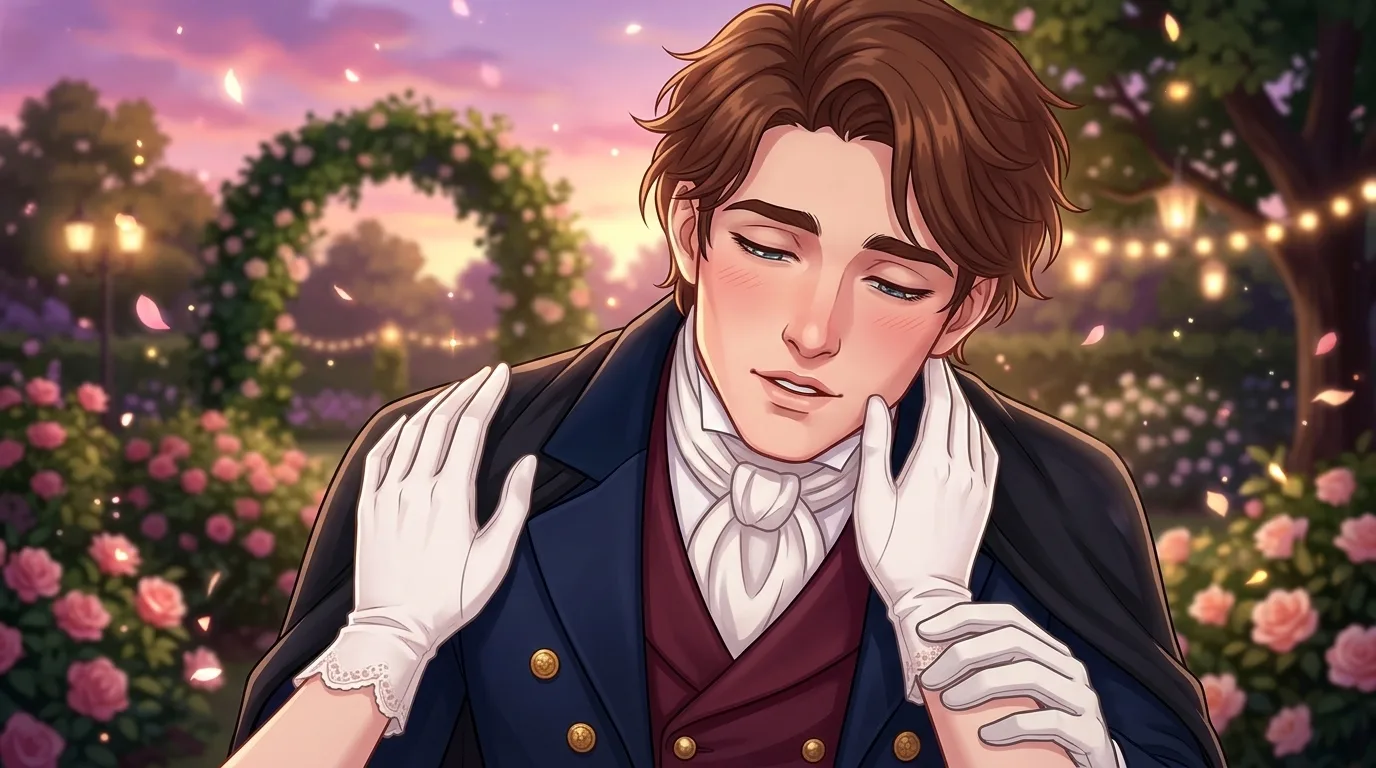
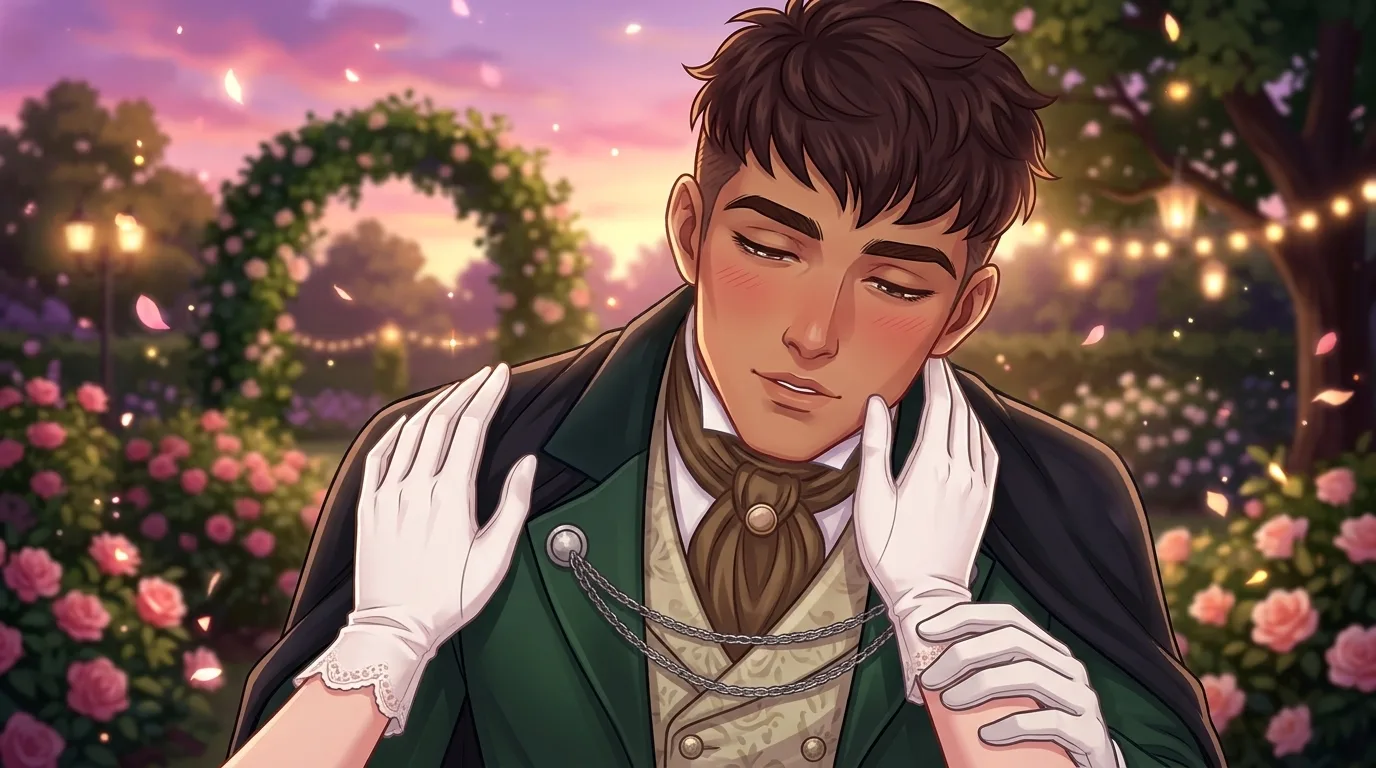
Corrige Edmund/Mateo sur les illustrations, ajoute firstkiss Edmund/Mateo et chevet Mateo
Claude-Session: https://claude.ai/code/session_01AMSofB5YBB9yuyCajHXYUu

diff --git a/sw.js b/sw.js
@@ -1,4 +1,4 @@
-const C='tlc-v28';const F=["./", "index.html", "manifest.webmanifest", "icons/favicon.png", "icons/icon-192.png", "icons/icon-512.png", "icons/icon-maskable-192.png", "icons/icon-maskable-512.png", "assets/bess.webp", "assets/clem.webp", "assets/cordelia.webp", "assets/dorval.webp", "assets/duchess.webp", "assets/edmund.webp", "assets/f1.webp", "assets/f2.webp", "assets/f3.webp", "assets/f4.webp", "assets/f5.webp", "assets/father.webp", "assets/georgie.webp", "assets/guard.webp", "assets/iris.webp", "assets/judge.webp", "assets/ladyp.webp", "assets/lordp.webp", "assets/m1.webp", "assets/m2.webp", "assets/m3.webp", "assets/m4.webp", "assets/mateo.webp", "assets/mk_bluegold.webp", "assets/mk_duchess.webp", "assets/mk_greengold.webp", "assets/mk_mcf.webp", "assets/mk_mcm.webp", "assets/mk_mother.webp", "assets/mk_peregrine.webp", "assets/mk_pink.webp", "assets/mk_prudence.webp", "assets/mk_queen.webp", "assets/mother.webp", "assets/nell.webp", "assets/perceval.webp", "assets/peregrine.webp", "assets/philippe.webp", "assets/prudence.webp", "assets/queen.webp", "assets/rosalind.webp", "assets/roux.webp", "assets/theo.webp", "assets/cg/firstkiss_nell.webp", "assets/cg/firstkiss_rosalind.webp", "assets/cg/jardin_edmund.webp", "assets/cg/jardin_mateo.webp", "assets/cg/jardin_nell.webp", "assets/cg/jardin_rosalind.webp", "assets/cg/pembroke_edmund.webp", "assets/cg/pembroke_mateo.webp", "assets/cg/pembroke_nell.webp", "assets/cg/pembroke_rosalind.webp"];
+const C='tlc-v29';const F=["./", "index.html", "manifest.webmanifest", "icons/favicon.png", "icons/icon-192.png", "icons/icon-512.png", "icons/icon-maskable-192.png", "icons/icon-maskable-512.png", "assets/bess.webp", "assets/clem.webp", "assets/cordelia.webp", "assets/dorval.webp", "assets/duchess.webp", "assets/edmund.webp", "assets/f1.webp", "assets/f2.webp", "assets/f3.webp", "assets/f4.webp", "assets/f5.webp", "assets/father.webp", "assets/georgie.webp", "assets/guard.webp", "assets/iris.webp", "assets/judge.webp", "assets/ladyp.webp", "assets/lordp.webp", "assets/m1.webp", "assets/m2.webp", "assets/m3.webp", "assets/m4.webp", "assets/mateo.webp", "assets/mk_bluegold.webp", "assets/mk_duchess.webp", "assets/mk_greengold.webp", "assets/mk_mcf.webp", "assets/mk_mcm.webp", "assets/mk_mother.webp", "assets/mk_peregrine.webp", "assets/mk_pink.webp", "assets/mk_prudence.webp", "assets/mk_queen.webp", "assets/mother.webp", "assets/nell.webp", "assets/perceval.webp", "assets/peregrine.webp", "assets/philippe.webp", "assets/prudence.webp", "assets/queen.webp", "assets/rosalind.webp", "assets/roux.webp", "assets/theo.webp", "assets/cg/chevet_mateo.webp", "assets/cg/firstkiss_edmund.webp", "assets/cg/firstkiss_mateo.webp", "assets/cg/firstkiss_nell.webp", "assets/cg/firstkiss_rosalind.webp", "assets/cg/jardin_edmund.webp", "assets/cg/jardin_mateo.webp", "assets/cg/jardin_nell.webp", "assets/cg/jardin_rosalind.webp", "assets/cg/pembroke_edmund.webp", "assets/cg/pembroke_mateo.webp", "assets/cg/pembroke_nell.webp", "assets/cg/pembroke_rosalind.webp"];
 self.addEventListener('install',e=>{e.waitUntil(caches.open(C).then(c=>c.addAll(F)).then(()=>self.skipWaiting()))});
 self.addEventListener('activate',e=>{e.waitUntil(caches.keys().then(k=>Promise.all(k.filter(x=>x!==C).map(x=>caches.delete(x)))).then(()=>self.clients.claim()))});
 self.addEventListener('fetch',e=>{if(e.request.method!=='GET')return;e.respondWith(caches.match(e.request).then(r=>r||fetch(e.request).then(res=>{if(res.ok||res.type==='opaque'){const cp=res.clone();caches.open(C).then(c=>c.put(e.request,cp))}return res}).catch(()=>caches.match('index.html'))))});

diff --git a/index.html b/index.html
@@ -4218,7 +4218,7 @@ function renderMenu(){$('mBack').textContent=tr('libBack');if(!menuBgDone){$('mb
  $('mList').innerHTML=`<button class="btn pri" data-a="cont" ${has?'':'disabled'}>${tr('cont')}</button><button class="btn" data-a="new">${tr('newg')}</button><button class="btn" data-a="gal">${tr('gal')}</button><button class="btn" data-a="saves">${tr('saves')}</button><button class="btn" data-a="opts">${tr('opts')}</button><div class="ver">${tr('ver')}</div>`}
 
 
-const CGS=new Set(['firstkiss_nell', 'firstkiss_rosalind', 'jardin_edmund', 'jardin_mateo', 'jardin_nell', 'jardin_rosalind', 'pembroke_edmund', 'pembroke_mateo', 'pembroke_nell', 'pembroke_rosalind']);
+const CGS=new Set(['chevet_mateo', 'firstkiss_edmund', 'firstkiss_mateo', 'firstkiss_nell', 'firstkiss_rosalind', 'jardin_edmund', 'jardin_mateo', 'jardin_nell', 'jardin_rosalind', 'pembroke_edmund', 'pembroke_mateo', 'pembroke_nell', 'pembroke_rosalind']);
 const CGSC=[{id:'firstkiss',t:['Le premier baiser à l\'opéra','The First Kiss at the Opera'],rt:1},{id:'jardin',t:['Le baiser des roses','The Kiss Among the Roses']},{id:'pembroke',t:['✨ Minuit dans la serre','✨ Midnight in the Conservatory'],sec:1},{id:'ascot',t:['✨ Au galop','✨ At a Gallop'],sec:1},{id:'vauxhall',t:['✨ Le phénix','✨ The Phoenix'],sec:1},{id:'chevet',t:['À ton chevet','At Your Bedside'],s2:1},{id:'wedding',t:['Le mariage','The Wedding'],s2:1}];
 function cgName(id){const sc=CGSC.find(x=>x.id==id),pr=preOf(S.p),mk=pr?pr.src.slice(7,-5):'x',li=sc.rt?(S.f.p1?'li1':'li2'):RID(sc.s2?'fi':'lv'),lk=li=='li1'?(S.p.attr=='m'?'edmund':'rosalind'):(S.p.attr=='m'?'mateo':'nell');const full=`${id}_${mk}_${lk}`;return CGS.has(full)?full:`${id}_${lk}`}
 function showCG(nm){mode='cg';$('box').className='hide';$('cgImg').src='assets/cg/'+nm+'.webp';$('cgP').textContent=tr(CGSC.find(x=>nm.startsWith(x.id+'_')).sec?'cgSec':'cgNew');$('cgv').classList.add('on');sfx('click')}
